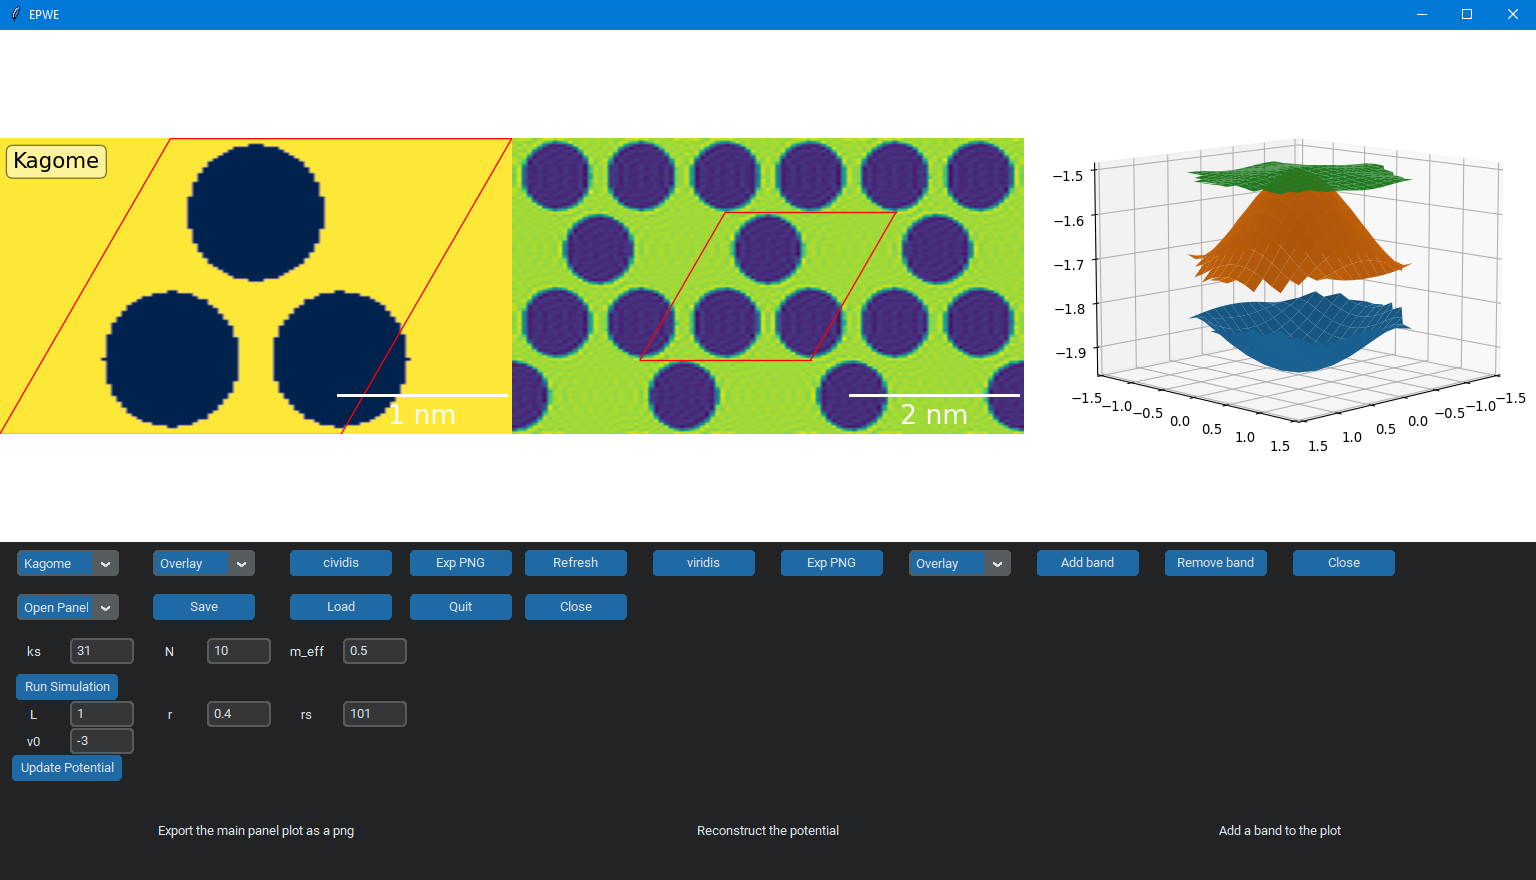
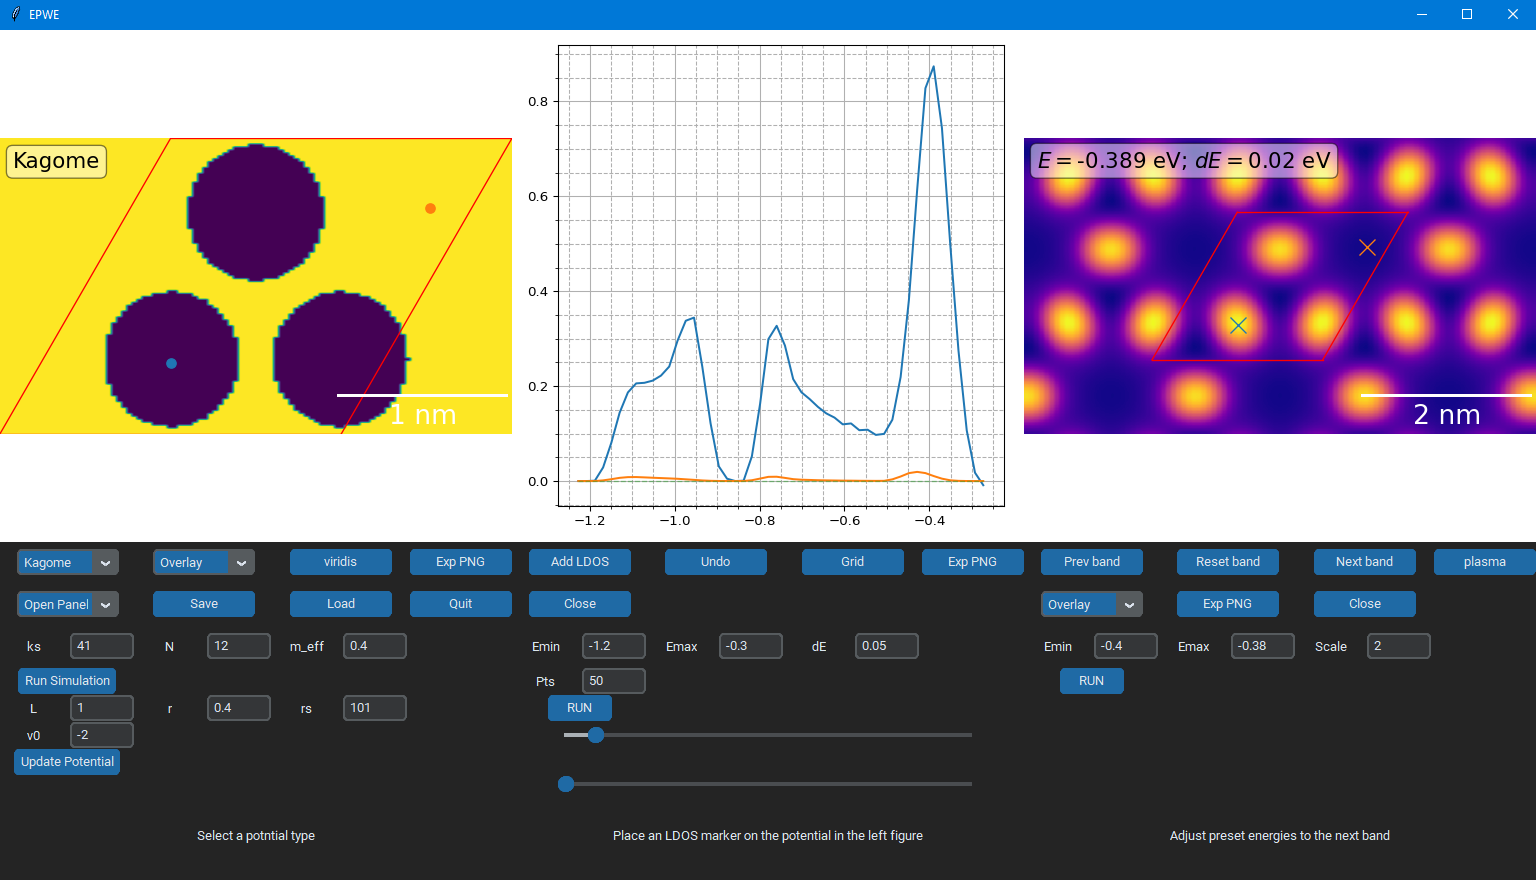
Update documentation and bug fix in LDOS
LDOS location markers y-coord needed to be flipped

diff --git a/Central-Equation-Solver/PotentialPanel.py b/Central-Equation-Solver/PotentialPanel.py
@@ -35,7 +35,7 @@ class PotentialPanel(Panel):
         self.btn['Overlay'].configure(values=overlayValues,fg_color=['#3B8ED0', '#1F6AA5'])
         
     def buttonHelp(self):
-        helpStr = "Rebuild the potential from with the N coefficients"
+        helpStr = "Rebuild the potential from the N coefficients"
         self.btn['Rebuild'].bind('<Enter>',lambda event, s=helpStr: self.updateHelpLabel(s))
         
         helpStr = "Change the colour map"
@@ -43,6 +43,9 @@ class PotentialPanel(Panel):
         
         helpStr = "Export the main panel plot as a png"
         self.btn['PNG'].bind('<Enter>',lambda event, s=helpStr: self.updateHelpLabel(s))
+        
+        helpStr = "Show/hide overlay features"
+        self.btn['Overlay'].bind('<Enter>',lambda event, s=helpStr: self.updateHelpLabel(s))
         
         helpStr = "Close this panel"
         self.btn['Close'].bind('<Enter>',lambda event, s=helpStr: self.updateHelpLabel(s))

diff --git a/Central-Equation-Solver/MainPanel.py b/Central-Equation-Solver/MainPanel.py
@@ -97,6 +97,12 @@ class MainPanel(Panel):
         helpStr = "Select a potntial type"
         self.btn['Potential'].bind('<Enter>',lambda event, s=helpStr: self.updateHelpLabel(s))
         
+        helpStr = "Change the colour map"
+        self.btn['cmap'].bind('<Enter>',lambda event, s=helpStr: self.updateHelpLabel(s))
+        
+        helpStr = "Export the panel figure as a png"
+        self.btn['PNG'].bind('<Enter>',lambda event, s=helpStr: self.updateHelpLabel(s))
+        
         helpStr = "Show/hide overlay features"
         self.btn['Overlay'].bind('<Enter>',lambda event, s=helpStr: self.updateHelpLabel(s))
         

diff --git a/Central-Equation-Solver/EPWE.py b/Central-Equation-Solver/EPWE.py
@@ -569,7 +569,7 @@ class EPWE():
                             kg1 = kg[:,0].reshape((n,1))
                             kg2 = kg[:,1].reshape((n,1))
                             
-                            exp = np.exp(i*(kg1[...,None]*x1[x0idx[0]] + kg2[...,None]*x2[x0idx[1]]))
+                            exp = np.exp(i*(kg1[...,None]*x1[x0idx[0]] + -kg2[...,None]*x2[x0idx[1]]))
                             psi_k = np.sum(exp*Coeff[:,row,kn,km][...,None,None],0)
                             
                             ldos += abs(psi_k)**2
